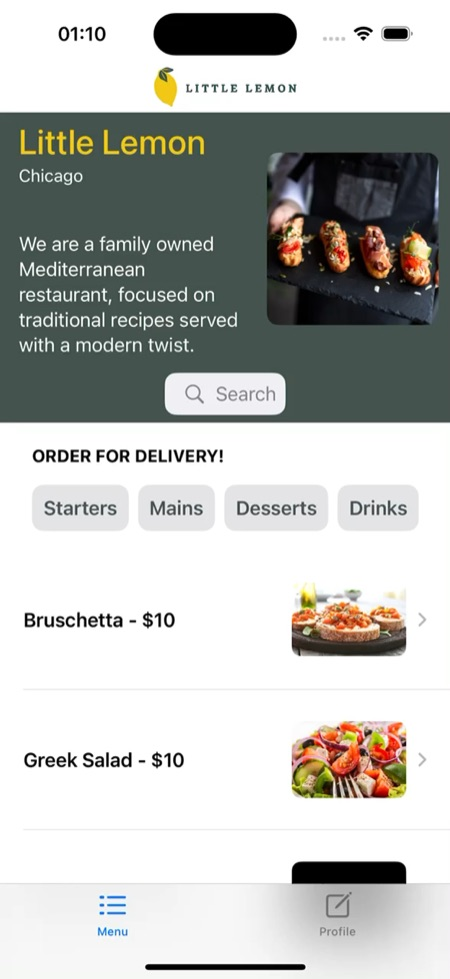
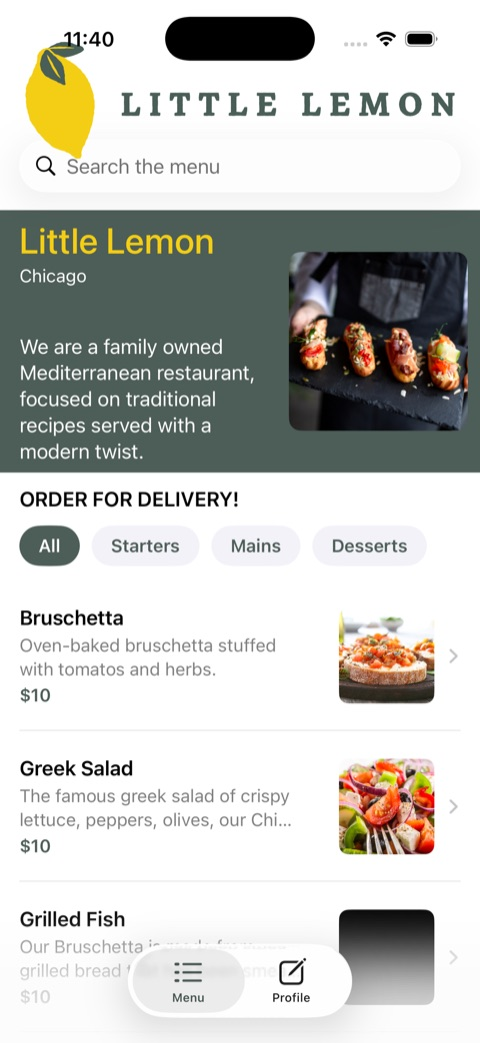
docs: refresh the README screenshots
Context: The gallery showed the pre-redesign menu and a sparse dish
detail captured from the old promo video.

Change: Replace them with fresh portrait screenshots of the redesigned
sign-up and menu screens, and drop the stale dish-detail image.

diff --git a/README.md b/README.md
@@ -5,9 +5,9 @@ A modern restaurant app built using SwiftUI.
 
 ## Screenshots
 
-| Menu | Dish detail |
+| Sign up | Menu |
 | :--: | :--: |
-| <img src="Screenshots/menu.jpg" width="250" alt="Little Lemon menu screen"> | <img src="Screenshots/dish-detail.jpg" width="250" alt="Little Lemon dish detail screen"> |
+| <img src="Screenshots/onboarding.jpg" width="250" alt="Little Lemon sign-up screen"> | <img src="Screenshots/menu.jpg" width="250" alt="Little Lemon menu screen"> |
 
 ## Features
 